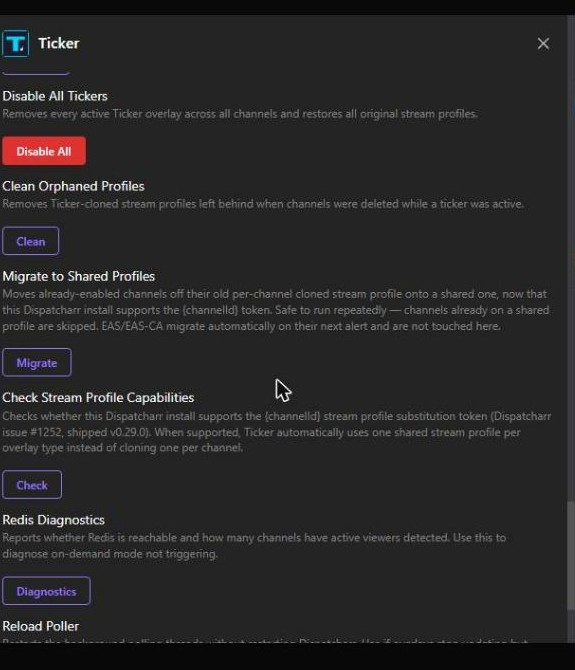
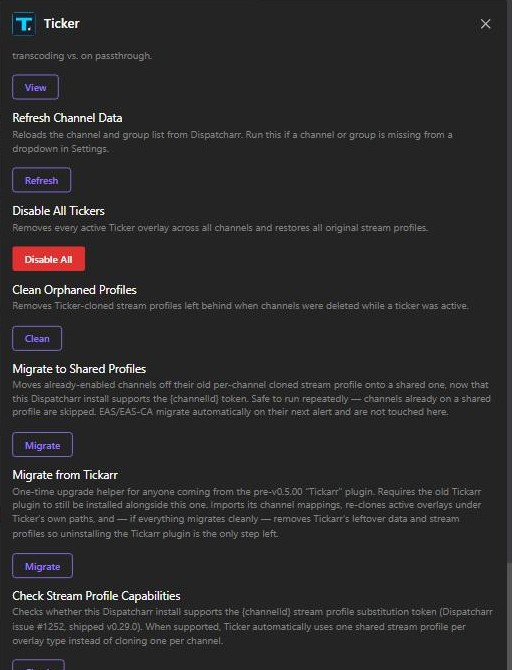
feat: add Migrate from Tickarr bridge-migration action (v0.5.01)
Adds a one-time upgrade helper for users still running the pre-v0.5.00
"Tickarr" plugin alongside Ticker. Reads Tickarr's own mappings.json
directly, re-clones each active overlay under Ticker's own data-dir
paths (the old clones point ffmpeg at tickarr_data/tickers/..., which
nothing writes to once Tickarr is removed), and imports every mapping
verbatim otherwise. On a clean run it also tears down Tickarr's
leftover data directory and orphaned stream profiles, so uninstalling
the Tickarr plugin is the only manual step left. Nothing is torn down
if any channel fails to migrate.

Verified end-to-end against a real Tickarr 0.4.02 + Ticker install on
a live Dispatcharr test instance: 5 real channels migrated, legacy
"Tickarr — " profiles removed, channels repointed at new "Ticker — "
profiles referencing the correct ticker_data path, tickarr_data
removed.

Also updates README/USERGUIDE with an "Upgrading from Tickarr"
section, bumps plugin.json to 0.5.01, and refreshes the Manage actions
screenshot. Removed docs/screenshots/my-plugins.jpg — unreferenced
leftover from before the Tickarr->Ticker rename, showing stale
branding.

Claude-Session: https://claude.ai/code/session_01PS7y5mwjj2CbeLh5TaFEaz

Changed region(s): [[0.0, 0.0, 1.0, 1.0]]

diff --git a/plugin.py b/plugin.py
@@ -4,6 +4,7 @@ import json
 import logging
 import os
 import re
+import shutil
 import subprocess
 import threading
 import time
@@ -29,6 +30,14 @@ CHANNEL_CACHE_FILE = os.path.join(_DATA_DIR, "channel_cache.json")
 # ---------------------------------------------------------------------------
 
 PROFILE_PREFIX = "Ticker — "   # em dash
+
+# Bridge-migration support for users upgrading from the pre-v0.5.00 "Tickarr" branding
+# (full rename, not a fork — see CURRENT.md). Every Tickarr-era release used this same
+# profile-name prefix and sibling data-dir name regardless of its own version number, so
+# these are safe to hardcode as fixed legacy constants rather than something derived from
+# the currently-installed folder name.
+LEGACY_PROFILE_PREFIX = "Tickarr — "   # em dash
+LEGACY_DATA_DIR_NAME  = "tickarr_data"
 
 DRAWTEXT_FILTER_TEMPLATE = (
     "drawtext="
@@ -1511,6 +1520,21 @@ def _get_mappings():
         # writer) — do NOT touch the file; it may well be fine on the next read.
         logger.error(f"ticker: failed to read mappings: {e}")
     return {}
+
+
+def _find_legacy_mappings():
+    """Locate the old Tickarr plugin's own mappings.json, if that plugin is still installed
+    alongside this one. Returns (path, mappings_dict) or (None, None) if not found/unreadable.
+    """
+    path = os.path.join(_PLUGINS_DIR, LEGACY_DATA_DIR_NAME, "mappings.json")
+    if not os.path.isfile(path):
+        return None, None
+    try:
+        with open(path, encoding="utf-8") as f:
+            return path, json.load(f)
+    except (json.JSONDecodeError, UnicodeDecodeError, OSError) as e:
+        logger.error(f"ticker: found legacy Tickarr mappings but could not read them ({path}): {e}")
+        return path, None
 
 
 def _save_mappings(mappings):
@@ -3092,6 +3116,7 @@ class Plugin:
             "fill_sort_logos":      self._fill_sort_logos,
             "clean_orphans":        self._clean_orphans,
             "migrate_shared_profiles": self._migrate_shared_profiles,
+            "migrate_from_tickarr":  self._migrate_from_tickarr,
             "check_channel_id_support": self._check_channel_id_support,
             "redis_diag":           self._redis_diag,
             "reload_poller":        self._reload_poller,
@@ -5031,6 +5056,148 @@ class Plugin:
         if failed:   parts.append("Failed:\n" + "\n".join(f"  - {f}" for f in failed))
         return {"success": not failed, "message": "\n\n".join(parts) or
                 "Nothing to migrate — every channel is already on a shared profile (or has none assigned right now)."}
+
+    def _migrate_from_tickarr(self, params):
+        """One-time bridge migration for users upgrading from the pre-v0.5.00 "Tickarr"
+        branding (full rename, not a fork — old and new plugin can be installed side by
+        side, see CURRENT.md). Reads the legacy plugin's own mappings.json directly off
+        disk, re-clones each active overlay under this plugin's own data dir/paths (the
+        old clones point ffmpeg at tickarr_data/tickers/..., which nothing will be writing
+        to anymore once Tickarr is removed), and imports every mapping — including ones
+        with no currently-active clone (idle on-demand channels) — as-is.
+        On a clean run (no failures) this also tears down the legacy install's own data:
+        its mappings/caches directory and any of its cloned stream profiles that are no
+        longer actually in use. That leaves uninstalling the Tickarr plugin itself (a
+        Dispatcharr-side action this plugin has no access to) as the only manual step.
+        If anything fails, nothing is torn down — safe to fix the issue and re-run.
+        """
+        from apps.channels.models import Channel
+        from core.models import StreamProfile
+
+        legacy_path, legacy_mappings = _find_legacy_mappings()
+        if not legacy_path:
+            return {"success": False, "message": (
+                "No legacy Tickarr installation found (looked for "
+                f"{LEGACY_DATA_DIR_NAME}/mappings.json next to this plugin). "
+                "Nothing to migrate."
+            )}
+        if legacy_mappings is None:
+            return {"success": False, "message": f"Found a legacy Tickarr install but could not read its mappings ({legacy_path}). See the log for details."}
+        if not legacy_mappings:
+            return {"success": False, "message": "Found a legacy Tickarr install, but it has no configured channels. Nothing to migrate."}
+
+        mappings = _get_mappings()
+        migrated, skipped, failed = [], [], []
+        legacy_pids_touched = set()
+
+        for cid, old in legacy_mappings.items():
+            name = old.get("channel_name", f"channel {cid}")
+            if cid in mappings:
+                skipped.append(f"{name} (already configured under Ticker — skipped)")
+                continue
+            try:
+                channel = Channel.objects.filter(id=int(cid)).first()
+                if not channel:
+                    skipped.append(f"{name} (channel no longer exists)")
+                    continue
+
+                ticker_type = old.get("type", "nowplaying")
+                old_pid = old.get("ticker_profile_id")
+                new_pid = None
+
+                if old_pid:
+                    orig = StreamProfile.objects.filter(id=old.get("original_profile_id")).first()
+                    if not orig:
+                        skipped.append(f"{name} (original base profile missing — active overlay could not be migrated)")
+                        continue
+
+                    if ticker_type == "nowplaying":
+                        new_profile, _ = _clone_and_inject(channel.id, orig, name)
+                    elif ticker_type == "custom":
+                        new_profile, _ = _clone_and_inject_custom(
+                            channel.id, orig, name,
+                            old.get("custom_style", "static"),
+                            old.get("custom_position", "bottom"),
+                            old.get("custom_schedule", "always"),
+                            old.get("custom_duration", 10),
+                            old.get("custom_interval", 5),
+                        )
+                    elif ticker_type == "sports":
+                        new_profile, _ = _clone_and_inject_sports(
+                            channel.id, orig, name,
+                            old.get("sports_position", "bottom"),
+                            int(old.get("sports_fontsize") or 36),
+                            old.get("sports_labelcolor", "#ffd700"),
+                            old.get("sports_abbrcolor", "#00d4ff"),
+                            old.get("sports_color_mode", "single"),
+                            old.get("sports_transcode_mode_video", "1080p30"),
+                            old.get("sports_ticker_style", "scrolling"),
+                        )
+                    else:
+                        new_profile = None  # EAS-only entries never have ticker_profile_id set
+
+                    if new_profile:
+                        _assign_profile(channel, new_profile)
+                        _restart_channel_stream_async(channel, "Migrate from Tickarr")
+                        new_pid = new_profile.id
+                        legacy_pids_touched.add(old_pid)
+
+                new_mapping = dict(old)
+                new_mapping["ticker_profile_id"] = new_pid
+                mappings[cid] = new_mapping
+                migrated.append(name)
+            except Exception as e:
+                logger.error(f"ticker: migrate_from_tickarr failed for {name}: {e}", exc_info=True)
+                failed.append(f"{name} (error: {e})")
+
+        if migrated:
+            _save_mappings(mappings)
+
+        parts = []
+        if migrated: parts.append(f"Migrated: {len(migrated)} channel(s)\n" + "\n".join(f"  - {n}" for n in migrated))
+        if skipped:  parts.append("Skipped:\n" + "\n".join(f"  - {s}" for s in skipped))
+        if failed:   parts.append("Failed:\n" + "\n".join(f"  - {f}" for f in failed))
+
+        if failed:
+            parts.append(
+                "Not tearing down the old Tickarr install because of the failures above — "
+                "fix the issue and re-run this action. Already-migrated channels above are "
+                "safe and won't be touched again."
+            )
+            return {"success": False, "message": "\n\n".join(parts)}
+
+        # Clean run — tear down everything Tickarr left behind. A profile is only ever
+        # deleted here if nothing (the mappings we just saved, or a live Channel FK) still
+        # actually points at it — same safety check as Clean Orphaned Profiles.
+        active_ids = set()
+        for m in mappings.values():
+            for key in ("ticker_profile_id", "eas_profile_id"):
+                if m.get(key):
+                    active_ids.add(m[key])
+
+        torn_down = []
+        for profile in StreamProfile.objects.filter(name__startswith=LEGACY_PROFILE_PREFIX):
+            if profile.id in active_ids:
+                continue
+            if Channel.objects.filter(stream_profile_id=profile.id).exists():
+                continue
+            try:
+                profile.delete()
+                torn_down.append(profile.name)
+            except Exception as e:
+                logger.warning(f"ticker: could not delete legacy profile {profile.name}: {e}")
+
+        try:
+            shutil.rmtree(os.path.join(_PLUGINS_DIR, LEGACY_DATA_DIR_NAME))
+        except OSError as e:
+            logger.warning(f"ticker: could not remove legacy data dir {LEGACY_DATA_DIR_NAME}: {e}")
+            parts.append(f"Note: could not remove the old {LEGACY_DATA_DIR_NAME} directory automatically ({e}) — safe to delete by hand.")
+
+        if torn_down:
+            parts.append(f"Removed {len(torn_down)} leftover Tickarr stream profile(s).")
+        parts.append("Migration complete. You can now uninstall the Tickarr plugin — nothing else references it.")
+
+        return {"success": True, "message": "\n\n".join(parts)}
 
     def _check_channel_id_support(self, params):
         supported = _supports_channel_id_token()

diff --git a/docs/USERGUIDE.md b/docs/USERGUIDE.md
@@ -152,6 +152,22 @@ If you enabled Ticker on a Dispatcharr version older than v0.29.0 and later upgr
 
 ---
 
+#### Upgrading from the old Tickarr plugin
+
+Ticker was renamed from **Tickarr** in v0.5.00. It's the same plugin — a full rebrand, not a fork — but Dispatcharr sees it as a brand-new plugin: different plugin key, different data directory. Updating an existing Tickarr install in place to a Ticker release does **not** carry your channel configuration forward automatically.
+
+If you're upgrading from Tickarr:
+
+1. Install Ticker **alongside** your existing Tickarr install — do not uninstall Tickarr yet.
+2. Enable Ticker, then run **Actions → Migrate from Tickarr**.
+3. Ticker reads Tickarr's own configuration directly, and for every channel with an active overlay, clones a fresh Ticker-managed stream profile (so playback keeps working once Tickarr's own files are gone) and reassigns the channel to it. Channels with no overlay currently active (e.g. idle On-Demand channels) are imported as-is — Ticker will clone their profile the normal way the next time they're needed.
+4. If every channel migrates without error, the action also removes Tickarr's leftover data directory and any of its stream profiles that are no longer in use — so uninstalling the Tickarr plugin is the only manual step left.
+5. If anything fails partway through (e.g. a channel's original stream profile was deleted), nothing is torn down — already-migrated channels are safe and won't be touched again, and the action can be re-run after resolving the issue.
+
+This is a one-time bridge — safe to run again, but it only has anything to do while Tickarr is still installed. EAS/Weather Canada alert state does not carry over (it's live, in-progress alert data, not configuration) — it rebuilds automatically the next time an alert fires after migrating; which channels have EAS/Weather Canada armed, and their settings, migrate normally along with everything else.
+
+---
+
 ### Step 3 — Enable the overlay
 
 Run **Actions → Enable Now Playing**.
@@ -705,6 +721,7 @@ Each section has its own button color so you can identify which overlay type an 
 | Disable All Tickers | Disables every active Ticker overlay across all channels. |
 | Clean Orphaned Profiles | Removes cloned stream profiles left behind when channels were deleted while a Ticker overlay was active. Also reaps shared profiles once no channel references them anymore. |
 | Migrate to Shared Profiles | On Dispatcharr v0.29.0+, moves already-enabled channels off their old per-channel cloned profile onto a shared one. Safe to run repeatedly. See [Upgrading an existing install to shared profiles](#upgrading-an-existing-install-to-shared-profiles). |
+| Migrate from Tickarr | One-time upgrade helper for anyone coming from the pre-v0.5.00 "Tickarr" plugin. Requires Tickarr to still be installed alongside Ticker. See [Upgrading from the old Tickarr plugin](#upgrading-from-the-old-tickarr-plugin). |
 | Check Stream Profile Capabilities | Reports whether this Dispatcharr install supports the `{channelId}` token (v0.29.0+) and therefore which profile mode Ticker is using — shared or per-channel. |
 | Redis Diagnostics | Reports whether Redis is reachable and how many channels have active viewers detected. |
 | Reload Poller | Restarts background polling threads without restarting Dispatcharr. Use if overlays stop updating but streams are still live. |

diff --git a/README.md b/README.md
@@ -1,6 +1,6 @@
 # Ticker
 
-![Version](https://img.shields.io/badge/version-0.4.0-blue)
+![Version](https://img.shields.io/badge/version-0.5.01-blue)
 
 A [Dispatcharr](https://github.com/Dispatcharr/Dispatcharr) plugin that injects dynamic text overlays into IPTV channels via FFmpeg. Ticker clones the channel's existing stream profile, injects overlay parameters, and restores the original profile on disable — the source profile is never modified.
 
@@ -104,6 +104,10 @@ Nothing happens until you give it something to display. You enable it on a chann
 Your channel runs 100% normally at all times. Ticker sits quietly in the background watching the NWS API for your configured zone codes — no overlay, no extra encoding, nothing. The moment an actual weather alert goes active for your zone, Ticker automatically switches the channel to the EAS overlay: scrolling alert bar, severity label, and attention tone if configured. The second that alert clears on the NWS side, your channel goes silently back to normal. Completely automatic, start to finish.
 
 ---
+
+## Upgrading from Tickarr
+
+Ticker was renamed from **Tickarr** in v0.5.00 — a full rebrand, not a fork, but Dispatcharr treats it as a brand-new plugin (different plugin key and data directory), so an in-place update does not carry your configuration over automatically. If you still have the old Tickarr plugin installed alongside Ticker, run **Actions → Migrate from Tickarr** once: it imports Tickarr's channel configuration, moves active overlays onto new Ticker-managed stream profiles, and — if nothing fails — cleans up Tickarr's leftover data and profiles so uninstalling the Tickarr plugin is the only step left. See [Upgrading from the old Tickarr plugin](docs/USERGUIDE.md#upgrading-from-the-old-tickarr-plugin) in the User Guide for details.
 
 ## Requirements
 
